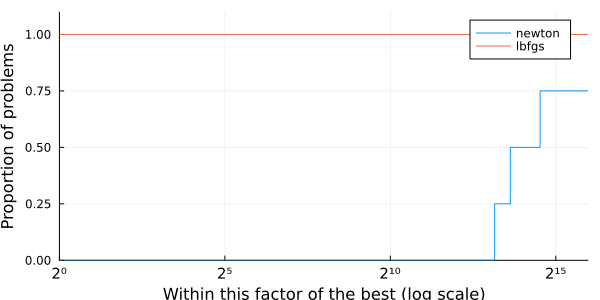
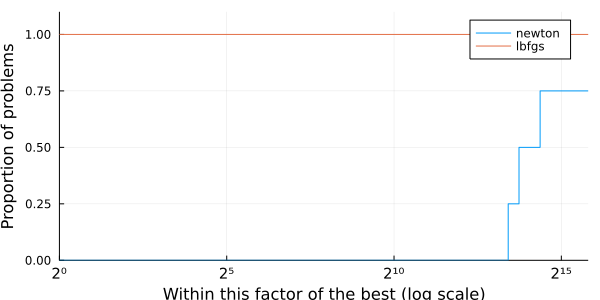
Deploying to gh-pages from  @ dcdb9bae952de26ad7f4052e1809d3c5ec10b59e 🚀

diff --git a/index.html b/index.html
@@ -1,4 +1,4 @@
-<!doctype html> <html lang=en  class=has-navbar-fixed-top > <meta charset=UTF-8 > <meta name=viewport  content="width=device-width, initial-scale=1"> <link rel=stylesheet  href="/libs/katex/katex.min.css"> <link rel=stylesheet  href="/libs/highlight/github.min.css"> <link rel=stylesheet  href="/css/styles.css"> <style> html {font-size: 17px;} .franklin-content {position: relative; padding-left: 8%; padding-right: 5%; line-height: 1.35em;} @media (min-width: 940px) { .franklin-content {width: 100%; margin-left: auto; margin-right: auto;} } @media (max-width: 768px) { .franklin-content {padding-left: 6%; padding-right: 6%;} } </style> <link rel=icon  href="/assets/favicon.png"> <title>Creating a JSO-compliant solver</title> <script src="/libs/highlight/highlight.pack.js"></script> <script src="https://unpkg.com/clipboard@2/dist/clipboard.min.js"></script> <script type=module  src="https://unpkg.com/ionicons@5.5.2/dist/ionicons/ionicons.esm.js"></script> <script nomodule src="https://unpkg.com/ionicons@5.5.2/dist/ionicons/ionicons.js"></script> <script> hljs.getLanguage('julia').keywords.custom = 'obj grad hess AbstractNLPModel'; </script> <nav class="navbar is-primary is-fixed-top" role=navigation  aria-label="main navigation"> <div class=navbar-brand > <a class=navbar-item  href="https://jso-docs.github.io"> <img src="/assets/jso.png"> </a> <a role=button  class=navbar-burger  aria-label=menu  aria-expanded=false  data-target=navbarBasicExample > <span aria-hidden=true ></span> <span aria-hidden=true ></span> <span aria-hidden=true ></span> </a> </div> <div id=navbarBasicExample  class=navbar-menu > <div class=navbar-start > <a class=navbar-item  href="/"> Home </a> <a class=navbar-item  href="/news-and-blogposts/"> News and Blogposts </a> <a class=navbar-item  href="/tutorials/"> Tutorials </a> <div class="navbar-item has-dropdown is-hoverable"> <a class=navbar-link  href="/ecosystems/index.html"> Ecosystems </a> <div class=navbar-dropdown > <a class=navbar-item  href="/ecosystems/linear-algebra/"> Linear Algebra </a> <a class=navbar-item  href="/ecosystems/models/"> Models </a> <a class=navbar-item  href="/ecosystems/solvers/"> Solvers </a> </div> </div> <a class=navbar-item  href="/references/"> References </a> <a class=navbar-item  href="/contributing/"> Contributing </a> </div> <div class=navbar-end > <div class=navbar-item > </div> </div> </div> </nav> <section class=section > <div class=container > <div class=content ><div class=franklin-content ><h1 id=title ><a href="#title" class=header-anchor >Creating a JSO-compliant solver</a></h1></p> <div class=author >by Abel S. Siqueira and João Okimoto</div> <p><a href="https://juliasmoothoptimizers.github.io/ADNLPModels.jl/stable/"><img class=badge  src="https://img.shields.io/badge/ADNLPModels-0.3.3-hsl(9,100%25,30%25)?style=flat-square&labelColor=hsl(9,30%25,30%25)"></a> <a href="https://juliasmoothoptimizers.github.io/JSOSolvers.jl/stable/"><img class=badge  src="https://img.shields.io/badge/JSOSolvers-0.7.6-hsl(101,100%25,30%25)?style=flat-square&labelColor=hsl(101,30%25,30%25)"></a> <img class=badge  src="https://img.shields.io/badge/LinearAlgebra-nothing-666?style=flat-square&labelColor=999"> <a href="https://juliasmoothoptimizers.github.io/NLPModels.jl/stable/"><img class=badge  src="https://img.shields.io/badge/NLPModels-0.18.5-hsl(175,100%25,30%25)?style=flat-square&labelColor=hsl(175,30%25,30%25)"></a> <img class=badge  src="https://img.shields.io/badge/Plots-1.29.1-666?style=flat-square&labelColor=999"> <a href="https://juliasmoothoptimizers.github.io/SolverBenchmark.jl/stable/"><img class=badge  src="https://img.shields.io/badge/SolverBenchmark-0.5.2-hsl(313,100%25,30%25)?style=flat-square&labelColor=hsl(313,30%25,30%25)"></a> <a href="https://juliasmoothoptimizers.github.io/SolverCore.jl/stable/"><img class=badge  src="https://img.shields.io/badge/SolverCore-0.2.3-hsl(323,100%25,30%25)?style=flat-square&labelColor=hsl(323,30%25,30%25)"></a> <p>In this tutorial you will learn what is a JSO-compliant solver, how to create one, and how to benchmark it against some other solver.</p> <div class=franklin-toc ><ol><li><a href="#what_is_a_jso-compliant_solver">What is a JSO-compliant solver</a><li><a href="#method_description">Method description</a><li><a href="#defining_a_test_problem_with_adnlpmodels_and_accessing_its_functions_with_the_nlpmodels_api">Defining a test problem with ADNLPModels and accessing its functions with the NLPModels API</a><li><a href="#improving_the_solver">Improving the solver</a><li><a href="#benchmarking">Benchmarking</a><li><a href="#performance_profiles">Performance profiles</a><li><a href="#improving_the_solver_more">Improving the solver more</a></ol></div> <h2 id=what_is_a_jso-compliant_solver ><a href="#what_is_a_jso-compliant_solver" class=header-anchor >What is a JSO-compliant solver</a></h2> <p>A JSO-compliant solver is a solver whose</p> <ul> <li><p>input is a model implementing the NLPModels API; and</p> <li><p>output is a specific struct from the package SolverCore.</p> </ul> <p>That means that you can devise your solver based on a single API that will work with many different problems. Furthermore, since the output type is known, we can provide tools to compare different solvers.</p> <p>To illustrate the procedure for creating a solver with the JSO API, we&#39;ll implement a Line-Search Modified Newton solver for the problem</p> \[ \min_x \ f(x) \] <h2 id=method_description ><a href="#method_description" class=header-anchor >Method description</a></h2> <p>The method consists of following the direction \(d_k\) that solves</p> \[ \nabla^2 f(x_k) d_k = -\nabla f(x_k) \] <p>This is only reasonable if the system can be solved and \(d_k\) is a descent direction. A sufficient condition for that is that \(\nabla^2 f(x_k)\) is positive definite, which is equivalent to saying that it has a Cholesky decomposition.</p> <p>Since this will not be true in general, the modified Newton method consists of computing \(\rho_k \geq 0\) such that \(\nabla^2 f(x_k) + \rho_k I\) is positive definite. One way to find such a \(\rho_k\) is given below</p> <pre><code class=language-julia >1. Start with ρ from the last iteration
+<!doctype html> <html lang=en  class=has-navbar-fixed-top > <meta charset=UTF-8 > <meta name=viewport  content="width=device-width, initial-scale=1"> <link rel=stylesheet  href="/libs/katex/katex.min.css"> <link rel=stylesheet  href="/libs/highlight/github.min.css"> <link rel=stylesheet  href="/css/styles.css"> <style> html {font-size: 17px;} .franklin-content {position: relative; padding-left: 8%; padding-right: 5%; line-height: 1.35em;} @media (min-width: 940px) { .franklin-content {width: 100%; margin-left: auto; margin-right: auto;} } @media (max-width: 768px) { .franklin-content {padding-left: 6%; padding-right: 6%;} } </style> <link rel=icon  href="/assets/favicon.png"> <title>Creating a JSO-compliant solver</title> <script src="/libs/highlight/highlight.pack.js"></script> <script src="https://unpkg.com/clipboard@2/dist/clipboard.min.js"></script> <script type=module  src="https://unpkg.com/ionicons@5.5.2/dist/ionicons/ionicons.esm.js"></script> <script nomodule src="https://unpkg.com/ionicons@5.5.2/dist/ionicons/ionicons.js"></script> <script> hljs.getLanguage('julia').keywords.custom = 'obj grad hess AbstractNLPModel'; </script> <nav class="navbar is-primary is-fixed-top" role=navigation  aria-label="main navigation"> <div class=navbar-brand > <a class=navbar-item  href="https://jso-docs.github.io"> <img src="/assets/jso.png"> </a> <a role=button  class=navbar-burger  aria-label=menu  aria-expanded=false  data-target=navbarBasicExample > <span aria-hidden=true ></span> <span aria-hidden=true ></span> <span aria-hidden=true ></span> </a> </div> <div id=navbarBasicExample  class=navbar-menu > <div class=navbar-start > <a class=navbar-item  href="/"> Home </a> <a class=navbar-item  href="/news-and-blogposts/"> News and Blogposts </a> <a class=navbar-item  href="/tutorials/"> Tutorials </a> <div class="navbar-item has-dropdown is-hoverable"> <a class=navbar-link  href="/ecosystems/index.html"> Ecosystems </a> <div class=navbar-dropdown > <a class=navbar-item  href="/ecosystems/linear-algebra/"> Linear Algebra </a> <a class=navbar-item  href="/ecosystems/models/"> Models </a> <a class=navbar-item  href="/ecosystems/solvers/"> Solvers </a> </div> </div> <a class=navbar-item  href="/references/"> References </a> <a class=navbar-item  href="/contributing/"> Contributing </a> </div> <div class=navbar-end > <div class=navbar-item > </div> </div> </div> </nav> <section class=section > <div class=container > <div class=content ><div class=franklin-content ><h1 id=title ><a href="#title" class=header-anchor >Creating a JSO-compliant solver</a></h1></p> <div class=author >by Abel S. Siqueira and João Okimoto</div> <p><a href="https://juliasmoothoptimizers.github.io/ADNLPModels.jl/stable/"><img class=badge  src="https://img.shields.io/badge/ADNLPModels-0.3.3-hsl(9,100%25,30%25)?style=flat-square&labelColor=hsl(9,30%25,30%25)"></a> <a href="https://juliasmoothoptimizers.github.io/JSOSolvers.jl/stable/"><img class=badge  src="https://img.shields.io/badge/JSOSolvers-0.7.6-hsl(101,100%25,30%25)?style=flat-square&labelColor=hsl(101,30%25,30%25)"></a> <img class=badge  src="https://img.shields.io/badge/LinearAlgebra-nothing-666?style=flat-square&labelColor=999"> <a href="https://juliasmoothoptimizers.github.io/NLPModels.jl/stable/"><img class=badge  src="https://img.shields.io/badge/NLPModels-0.18.5-hsl(175,100%25,30%25)?style=flat-square&labelColor=hsl(175,30%25,30%25)"></a> <img class=badge  src="https://img.shields.io/badge/Plots-1.30.1-666?style=flat-square&labelColor=999"> <a href="https://juliasmoothoptimizers.github.io/SolverBenchmark.jl/stable/"><img class=badge  src="https://img.shields.io/badge/SolverBenchmark-0.5.2-hsl(313,100%25,30%25)?style=flat-square&labelColor=hsl(313,30%25,30%25)"></a> <a href="https://juliasmoothoptimizers.github.io/SolverCore.jl/stable/"><img class=badge  src="https://img.shields.io/badge/SolverCore-0.2.3-hsl(323,100%25,30%25)?style=flat-square&labelColor=hsl(323,30%25,30%25)"></a> <p>In this tutorial you will learn what is a JSO-compliant solver, how to create one, and how to benchmark it against some other solver.</p> <div class=franklin-toc ><ol><li><a href="#what_is_a_jso-compliant_solver">What is a JSO-compliant solver</a><li><a href="#method_description">Method description</a><li><a href="#defining_a_test_problem_with_adnlpmodels_and_accessing_its_functions_with_the_nlpmodels_api">Defining a test problem with ADNLPModels and accessing its functions with the NLPModels API</a><li><a href="#improving_the_solver">Improving the solver</a><li><a href="#benchmarking">Benchmarking</a><li><a href="#performance_profiles">Performance profiles</a><li><a href="#improving_the_solver_more">Improving the solver more</a></ol></div> <h2 id=what_is_a_jso-compliant_solver ><a href="#what_is_a_jso-compliant_solver" class=header-anchor >What is a JSO-compliant solver</a></h2> <p>A JSO-compliant solver is a solver whose</p> <ul> <li><p>input is a model implementing the NLPModels API; and</p> <li><p>output is a specific struct from the package SolverCore.</p> </ul> <p>That means that you can devise your solver based on a single API that will work with many different problems. Furthermore, since the output type is known, we can provide tools to compare different solvers.</p> <p>To illustrate the procedure for creating a solver with the JSO API, we&#39;ll implement a Line-Search Modified Newton solver for the problem</p> \[ \min_x \ f(x) \] <h2 id=method_description ><a href="#method_description" class=header-anchor >Method description</a></h2> <p>The method consists of following the direction \(d_k\) that solves</p> \[ \nabla^2 f(x_k) d_k = -\nabla f(x_k) \] <p>This is only reasonable if the system can be solved and \(d_k\) is a descent direction. A sufficient condition for that is that \(\nabla^2 f(x_k)\) is positive definite, which is equivalent to saying that it has a Cholesky decomposition.</p> <p>Since this will not be true in general, the modified Newton method consists of computing \(\rho_k \geq 0\) such that \(\nabla^2 f(x_k) + \rho_k I\) is positive definite. One way to find such a \(\rho_k\) is given below</p> <pre><code class=language-julia >1. Start with ρ from the last iteration
 2. Try to compute the Cholesky factor of ∇²f&#40;x&#41; &#43; ρI
 3. If not successful, increase ρ to either 1e-8 or 10ρ, whichever is largest, and return to step 2
 4. Otherwise, continue the algorithm</code></pre> <p>Next, for the line-search part, we use backtracking and ask that the Armijo condition be satisfied, that is find the smallest \(p \in \mathbb{N}\) such that \(t = σ^p\) satisfies</p> \[ f(x_k + td_k) < f(x_k) + \alpha t g_k^T d_k, \] <p>for \(\alpha \in (0,1)\), called the Armijo parameter.</p> <h2 id=defining_a_test_problem_with_adnlpmodels_and_accessing_its_functions_with_the_nlpmodels_api ><a href="#defining_a_test_problem_with_adnlpmodels_and_accessing_its_functions_with_the_nlpmodels_api" class=header-anchor >Defining a test problem with ADNLPModels and accessing its functions with the NLPModels API</a></h2> <p>Let&#39;s define a test problem to verify that our method is working, and let&#39;s use a classic one: Rosenbrock&#39;s function<sup id="fnref:1"><a href="#fndef:1" class=fnref >[1]</a></sup></p> \[ \min_x \ (x_1 - 1)^2 + 4 (x_2 - x_1^2)^2, \] <p>starting from point &#91;-1.2; 1.0&#93;.</p> <pre><code class=language-julia >using Plots
@@ -8,7 +8,7 @@ contour&#40;-2:0.02:2, -0.5:0.02:1.5, &#40;x,y&#41; -&gt; &#40;x - 1&#41;^2 &#43
 nlp &#61; ADNLPModel&#40;
   x -&gt; &#40;x&#91;1&#93; - 1&#41;^2 &#43; 4 * &#40;x&#91;2&#93; - x&#91;1&#93;^2&#41;^2, # function
   &#91;-1.2; 1.0&#93; # starting point
-&#41;</code></pre><pre><code class="plaintext code-output">ADNLPModel - Model with automatic differentiation backend ADNLPModels.ForwardDiffAD{ForwardDiff.GradientConfig{ForwardDiff.Tag{var"#3#4", Float64}, Float64, 2, Vector{ForwardDiff.Dual{ForwardDiff.Tag{var"#3#4", Float64}, Float64, 2}}}}(3, 0, ForwardDiff.GradientConfig{ForwardDiff.Tag{var"#3#4", Float64}, Float64, 2, Vector{ForwardDiff.Dual{ForwardDiff.Tag{var"#3#4", Float64}, Float64, 2}}}((Partials(1.0, 0.0), Partials(0.0, 1.0)), ForwardDiff.Dual{ForwardDiff.Tag{var"#3#4", Float64}, Float64, 2}[Dual{ForwardDiff.Tag{var"#3#4", Float64}}(0.0,6.9330705576284e-310,6.93307054898106e-310), Dual{ForwardDiff.Tag{var"#3#4", Float64}}(0.0,6.9330705576284e-310,6.93307054898106e-310)]))
+&#41;</code></pre><pre><code class="plaintext code-output">ADNLPModel - Model with automatic differentiation backend ADNLPModels.ForwardDiffAD{ForwardDiff.GradientConfig{ForwardDiff.Tag{var"#3#4", Float64}, Float64, 2, Vector{ForwardDiff.Dual{ForwardDiff.Tag{var"#3#4", Float64}, Float64, 2}}}}(3, 0, ForwardDiff.GradientConfig{ForwardDiff.Tag{var"#3#4", Float64}, Float64, 2, Vector{ForwardDiff.Dual{ForwardDiff.Tag{var"#3#4", Float64}, Float64, 2}}}((Partials(1.0, 0.0), Partials(0.0, 1.0)), ForwardDiff.Dual{ForwardDiff.Tag{var"#3#4", Float64}, Float64, 2}[Dual{ForwardDiff.Tag{var"#3#4", Float64}}(0.0,6.9285129770254e-310,6.92851296837805e-310), Dual{ForwardDiff.Tag{var"#3#4", Float64}}(0.0,6.9285129770254e-310,6.92851296837805e-310)]))
   Problem name: Generic
    All variables: ████████████████████ 2      All constraints: ⋅⋅⋅⋅⋅⋅⋅⋅⋅⋅⋅⋅⋅⋅⋅⋅⋅⋅⋅⋅ 0     
             free: ████████████████████ 2                 free: ⋅⋅⋅⋅⋅⋅⋅⋅⋅⋅⋅⋅⋅⋅⋅⋅⋅⋅⋅⋅ 0     
@@ -247,7 +247,7 @@ print&#40;output&#41;</code></pre><pre><code class="plaintext code-output">Gener
   dual feasibility: 4.018046284781729e-9
   solution: [0.9999999986742657  0.9999999970013461]
   iterations: 18
-  elapsed time: 7.104873657226562e-5
+  elapsed time: 4.887580871582031e-5
 </code></pre>
 <p>And to compare both solvers, we need a collection of problems. Let&#39;s just create one manually for now.</p>
 <pre><code class=language-julia >problems &#61; &#91;
@@ -265,17 +265,17 @@ stats &#61; bmark_solvers&#40;solvers, problems&#41;</code></pre><pre><code clas
  Row │ id     name     nvar   ncon   nequ   status       objective     elapsed_time  iter   dual_feas  primal_feas  neval_obj  neval_grad  neval_cons  neval_cons_lin  neval_cons_nln  neval_jcon  neval_jgrad  neval_jac  neval_jac_lin  neval_jac_nln  neval_jprod  neval_jprod_lin  neval_jprod_nln  neval_jtprod  neval_jtprod_lin  neval_jtprod_nln  neval_hess  neval_hprod  neval_jhess  neval_jhprod  neval_residual  neval_jac_residual  neval_jprod_residual  neval_jtprod_residual  neval_hess_residual  neval_jhess_residual  neval_hprod_residual  extrainfo
      │ Int64  String   Int64  Int64  Int64  Symbol       Float64       Float64       Int64  Float64    Float64      Int64      Int64       Int64       Int64           Int64           Int64       Int64        Int64      Int64          Int64          Int64        Int64            Int64            Int64         Int64             Int64             Int64       Int64        Int64        Int64         Int64           Int64               Int64                 Int64                  Int64                Int64                 Int64                 String
 ─────┼────────────────────────────────────────────────────────────────────────────────────────────────────────────────────────────────────────────────────────────────────────────────────────────────────────────────────────────────────────────────────────────────────────────────────────────────────────────────────────────────────────────────────────────────────────────────────────────────────────────────────────────────────────────────────────────────────────────────────────────────────────────────────────────────────────────────────────────────────
-   1 │     1  Generic      2      0      0  first_order   2.46519e-31      0.581334      1        Inf          0.0          3           4           0               0               0           0            0          0              0              0            0                0                0             0                 0                 0           1            0            0             0               0                   0                     0                      0                    0                     0                     0
-   2 │     2  Generic      2      0      0  first_order   3.74398e-21      0.674716     21        Inf          0.0         50          64           0               0               0           0            0          0              0              0            0                0                0             0                 0                 0          21            0            0             0               0                   0                     0                      0                    0                     0                     0
-   3 │     3  Generic      2      0      0  max_iter     -8.36356          0.574027    100        Inf          0.0        201         301           0               0               0           0            0          0              0              0            0                0                0             0                 0                 0         100            0            0             0               0                   0                     0                      0                    0                     0                     0
-   4 │     4  Generic      2      0      0  first_order   1.43195          0.635476      5        Inf          0.0         12          16           0               0               0           0            0          0              0              0            0                0                0             0                 0                 0           5            0            0             0               0                   0                     0                      0                    0                     0                     0
+   1 │     1  Generic      2      0      0  first_order   2.46519e-31      0.53312       1        Inf          0.0          3           4           0               0               0           0            0          0              0              0            0                0                0             0                 0                 0           1            0            0             0               0                   0                     0                      0                    0                     0                     0
+   2 │     2  Generic      2      0      0  first_order   3.74398e-21      0.631491     21        Inf          0.0         50          64           0               0               0           0            0          0              0              0            0                0                0             0                 0                 0          21            0            0             0               0                   0                     0                      0                    0                     0                     0
+   3 │     3  Generic      2      0      0  max_iter     -8.36356          0.527502    100        Inf          0.0        201         301           0               0               0           0            0          0              0              0            0                0                0             0                 0                 0         100            0            0             0               0                   0                     0                      0                    0                     0                     0
+   4 │     4  Generic      2      0      0  first_order   1.43195          0.568803      5        Inf          0.0         12          16           0               0               0           0            0          0              0              0            0                0                0             0                 0                 0           5            0            0             0               0                   0                     0                      0                    0                     0                     0
   :lbfgs => 4×39 DataFrame
  Row │ id     name     nvar   ncon   nequ   status       objective     elapsed_time  iter   dual_feas   primal_feas  neval_obj  neval_grad  neval_cons  neval_cons_lin  neval_cons_nln  neval_jcon  neval_jgrad  neval_jac  neval_jac_lin  neval_jac_nln  neval_jprod  neval_jprod_lin  neval_jprod_nln  neval_jtprod  neval_jtprod_lin  neval_jtprod_nln  neval_hess  neval_hprod  neval_jhess  neval_jhprod  neval_residual  neval_jac_residual  neval_jprod_residual  neval_jtprod_residual  neval_hess_residual  neval_jhess_residual  neval_hprod_residual  extrainfo
      │ Int64  String   Int64  Int64  Int64  Symbol       Float64       Float64       Int64  Float64     Float64      Int64      Int64       Int64       Int64           Int64           Int64       Int64        Int64      Int64          Int64          Int64        Int64            Int64            Int64         Int64             Int64             Int64       Int64        Int64        Int64         Int64           Int64               Int64                 Int64                  Int64                Int64                 Int64                 String
 ─────┼─────────────────────────────────────────────────────────────────────────────────────────────────────────────────────────────────────────────────────────────────────────────────────────────────────────────────────────────────────────────────────────────────────────────────────────────────────────────────────────────────────────────────────────────────────────────────────────────────────────────────────────────────────────────────────────────────────────────────────────────────────────────────────────────────────────────────────────────────────
-   1 │     1  Generic      2      0      0  first_order   2.26824e-16    4.60148e-5      8  5.28297e-8          0.0         11          10           0               0               0           0            0          0              0              0            0                0                0             0                 0                 0           0            0            0             0               0                   0                     0                      0                    0                     0                     0
-   2 │     2  Generic      2      0      0  first_order   1.44561e-17    7.41482e-5     39  8.41132e-8          0.0         52          45           0               0               0           0            0          0              0              0            0                0                0             0                 0                 0           0            0            0             0               0                   0                     0                      0                    0                     0                     0
-   3 │     3  Generic      2      0      0  first_order  -8.37235        2.90871e-5     12  1.60958e-9          0.0         17          15           0               0               0           0            0          0              0              0            0                0                0             0                 0                 0           0            0            0             0               0                   0                     0                      0                    0                     0                     0
+   1 │     1  Generic      2      0      0  first_order   2.26824e-16    3.91006e-5      8  5.28297e-8          0.0         11          10           0               0               0           0            0          0              0              0            0                0                0             0                 0                 0           0            0            0             0               0                   0                     0                      0                    0                     0                     0
+   2 │     2  Generic      2      0      0  first_order   1.44561e-17    5.79357e-5     39  8.41132e-8          0.0         52          45           0               0               0           0            0          0              0              0            0                0                0             0                 0                 0           0            0            0             0               0                   0                     0                      0                    0                     0                     0
+   3 │     3  Generic      2      0      0  first_order  -8.37235        2.28882e-5     12  1.60958e-9          0.0         17          15           0               0               0           0            0          0              0              0            0                0                0             0                 0                 0           0            0            0             0               0                   0                     0                      0                    0                     0                     0
    4 │     4  Generic      2      0      0  first_order   1.43195        2.69413e-5      9  4.18646e-9          0.0         11          11           0               0               0           0            0          0              0              0            0                0                0             0                 0                 0           0            0            0             0               0                   0                     0                      0                    0                     0                     0</code></pre>
 <p>The results is a Dictionary of Symbols to DataFrame tables.</p>
 <pre><code class=language-julia >@show typeof&#40;stats&#41;
@@ -287,10 +287,10 @@ keys(stats) = [:newton, :lbfgs]
 pretty_stats&#40;stats&#91;:newton&#93;&#91;&#33;, cols&#93;&#41;</code></pre><pre><code class="plaintext code-output">┌─────────┬─────────────┬───────────┬──────────────┬────────┐
 │    name │      status │ objective │ elapsed_time │   iter │
 ├─────────┼─────────────┼───────────┼──────────────┼────────┤
-│ Generic │ first_order │  2.47e-31 │     5.81e-01 │      1 │
-│ Generic │ first_order │  3.74e-21 │     6.75e-01 │     21 │
-│ Generic │    max_iter │ -8.36e+00 │     5.74e-01 │    100 │
-│ Generic │ first_order │  1.43e+00 │     6.35e-01 │      5 │
+│ Generic │ first_order │  2.47e-31 │     5.33e-01 │      1 │
+│ Generic │ first_order │  3.74e-21 │     6.31e-01 │     21 │
+│ Generic │    max_iter │ -8.36e+00 │     5.28e-01 │    100 │
+│ Generic │ first_order │  1.43e+00 │     5.69e-01 │      5 │
 └─────────┴─────────────┴───────────┴──────────────┴────────┘
 </code></pre>
 <p>We can also create a similar table in .tex format, using something like</p>
@@ -496,7 +496,7 @@ performance_profile&#40;stats, cost&#41;</code></pre>
     <footer class=footer >
       <div class="content has-text-centered is-small">
         &copy; Abel Soares Siqueira. <br>
-        Last modified: June 12, 2022.<br>
+        Last modified: June 19, 2022.<br>
         <a ckass=link  href="https://github.com/jso-docs/">jso-docs at GitHub</a>
       </div>
     </footer>
